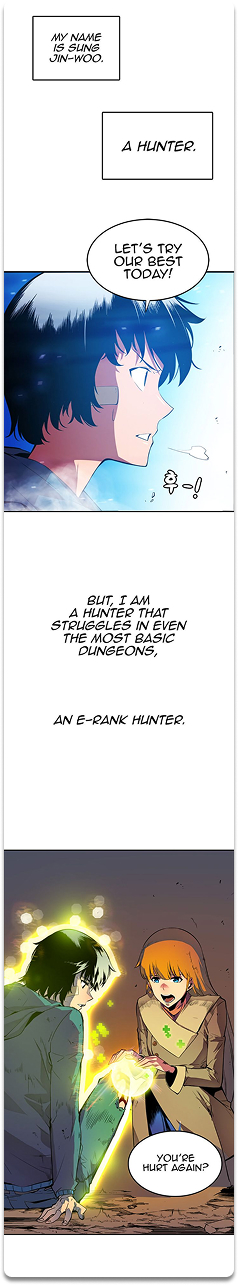
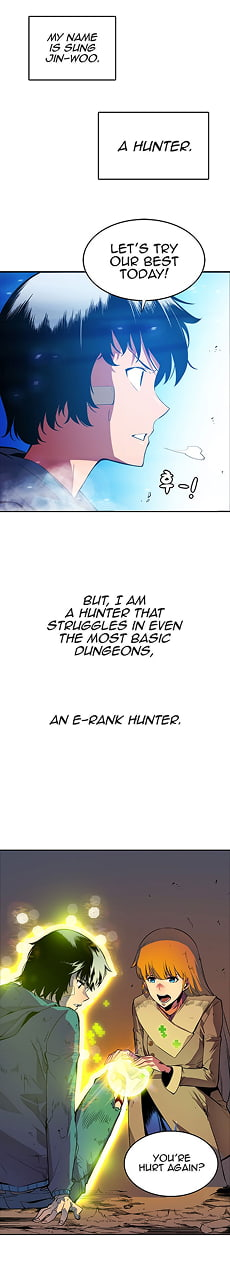
done mob page

diff --git a/manga/Solo-leveling/Chapters/Chapter0/Chapter-0.html b/manga/Solo-leveling/Chapters/Chapter0/Chapter-0.html
@@ -226,6 +226,7 @@
                     />
 
                     <img
+                      class="img-page"
                       src="images/mobile/solo-lvl-page-1-mob-1x.jpg"
                       alt="Page 1 Solo Leveling, Chapter 0"
                       width="230"
@@ -260,10 +261,11 @@
                     />
 
                     <img
+                      class="img-page"
                       src="images/mobile/solo-lvl-page-2-mob-1x.jpg"
                       alt="Page 2 Solo Leveling, Chapter 0"
                       width="230"
-                      height="1784"
+                      height="1277"
                     />
                   </picture>
                 </div>
@@ -294,10 +296,11 @@
                     />
 
                     <img
+                      class="img-page"
                       src="images/mobile/solo-lvl-page-3-mob-1x.jpg"
                       alt="Page 3 Solo Leveling, Chapter 0"
                       width="230"
-                      height="1784"
+                      height="1930"
                     />
                   </picture>
                 </div>
@@ -328,10 +331,11 @@
                     />
 
                     <img
+                      class="img-page"
                       src="images/mobile/solo-lvl-page-4-mob-1x.jpg"
                       alt="Page 4 Solo Leveling, Chapter 0"
                       width="230"
-                      height="1784"
+                      height="1410"
                     />
                   </picture>
                 </div>
@@ -362,10 +366,11 @@
                     />
 
                     <img
+                      class="img-page"
                       src="images/mobile/solo-lvl-page-5-mob-1x.jpg"
                       alt="Page 5 Solo Leveling, Chapter 0"
                       width="230"
-                      height="1784"
+                      height="2126"
                     />
                   </picture>
                 </div>
@@ -396,10 +401,11 @@
                     />
 
                     <img
+                      class="img-page"
                       src="images/mobile/solo-lvl-page-6-mob-1x.jpg"
                       alt="Page 6 Solo Leveling, Chapter 0"
                       width="230"
-                      height="1784"
+                      height="1596"
                     />
                   </picture>
                 </div>
@@ -430,10 +436,11 @@
                     />
 
                     <img
+                      class="img-page"
                       src="images/mobile/solo-lvl-page-7-mob-1x.jpg"
                       alt="Page 7 Solo Leveling, Chapter 0"
                       width="230"
-                      height="1784"
+                      height="2440"
                     />
                   </picture>
                 </div>
@@ -443,36 +450,44 @@
                   <picture>
                     <source
                       srcset="
-                        images/desktop/solo-lvl-page-7-desktop-1x.jpg 1x,
-                        images/desktop/solo-lvl-page-7-desktop-2x.jpg 2x
+                        images/desktop/solo-lvl-page-8-desktop-1x.jpg 1x,
+                        images/desktop/solo-lvl-page-8-desktop-2x.jpg 2x
                       "
                       media="(min-width: 1440px)"
                     />
                     <source
                       srcset="
-                        images/tablet/solo-lvl-page-7-tablet-1x.jpg 1x,
-                        images/tablet/solo-lvl-page-7-tablet-2x.jpg 2x
+                        images/tablet/solo-lvl-page-8-tablet-1x.jpg 1x,
+                        images/tablet/solo-lvl-page-8-tablet-2x.jpg 2x
                       "
                       media="(min-width: 768px)"
                     />
                     <source
                       srcset="
-                        images/mobile/solo-lvl-page-7-mob-1x.jpg 1x,
-                        images/mobile/solo-lvl-page-7-mob-2x.jpg 2x
+                        images/mobile/solo-lvl-page-8-mob-1x.jpg 1x,
+                        images/mobile/solo-lvl-page-8-mob-2x.jpg 2x
                       "
                       media="(max-width: 767px)"
                     />
 
                     <img
-                      src="images/mobile/solo-lvl-page-7-mob-1x.jpg"
-                      alt="Page 7 Solo Leveling, Chapter 0"
+                      class="img-page"
+                      src="images/mobile/solo-lvl-page-8-mob-1x.jpg"
+                      alt="Page 8 Solo Leveling, Chapter 0"
                       width="230"
-                      height="1784"
+                      height="772"
                     />
                   </picture>
                 </div>
               </li>
             </ul>
+            <div class="read-next">
+              <a class="next-rigth" href="#">
+                <svg class="next" width="34" height="34">
+                  <use href="../../../../assets/icon/icon.svg#icon-right-circle"></use>
+                </svg>
+              </a>
+            </div>
           </div>
         </section>
         <!-- #endregion sec2 styles -->

diff --git a/assets/css/read.css b/assets/css/read.css
@@ -381,8 +381,11 @@ img {
   transition: color 50ms cubic-bezier(0.12, 0.57, 0.96, 0.69);
 }
 
-.name-manga {
+.manga-content {
   padding-top: 30px;
+}
+
+.name-manga {
   font-family: var(--font-family);
   font-weight: 400;
   font-size: 20px;
@@ -396,6 +399,42 @@ img {
   background-clip: text;
   -webkit-background-clip: text;
   -webkit-text-fill-color: transparent;
+}
+
+.list-chapters {
+  padding-top: 30px;
+  display: flex;
+  flex-direction: column;
+  align-items: center;
+  row-gap: 25px;
+}
+
+.chapter-item {
+  border-radius: 8px;
+  box-shadow: 0 4px 4px 0 rgba(0, 0, 0, 0.5);
+}
+
+.img-page {
+  border-radius: 8px;
+}
+
+.read-next {
+  padding-top: 25px;
+  padding-bottom: 30px;
+  display: flex;
+  justify-content: center;
+}
+
+.next-rigth {
+  width: 34px;
+  height: 34px;
+  cursor: pointer;
+}
+
+.next {
+  stroke: #1e1e1e;
+
+  fill: transparent;
 }
 
 /* #endregion main styles */
